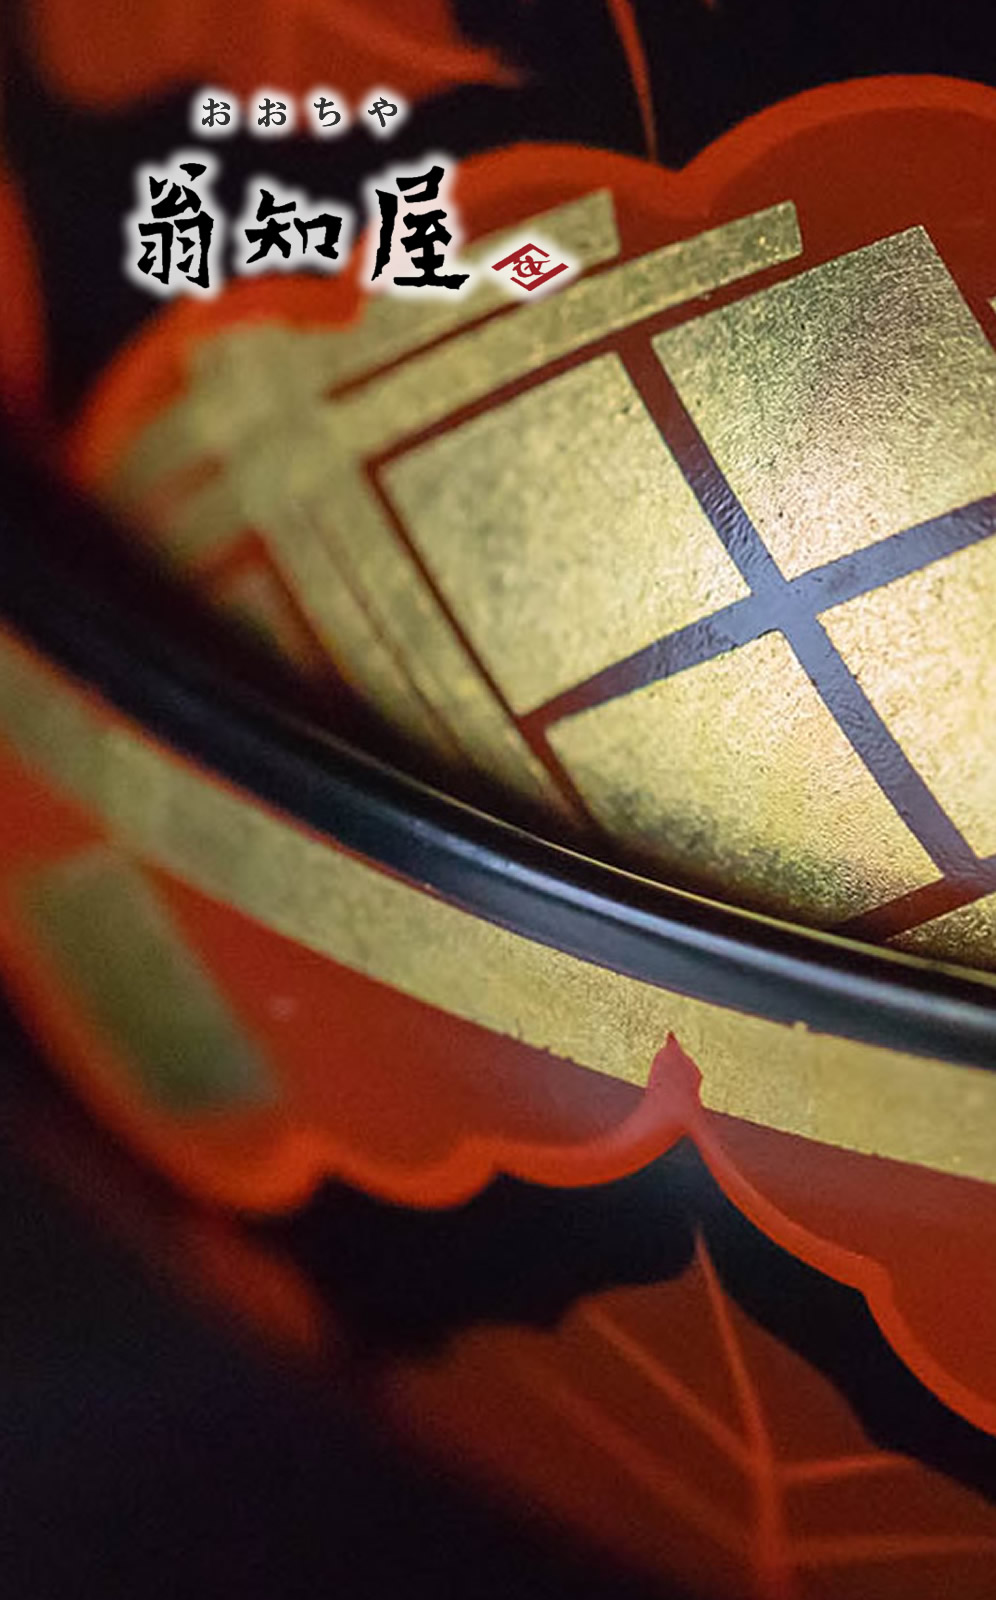
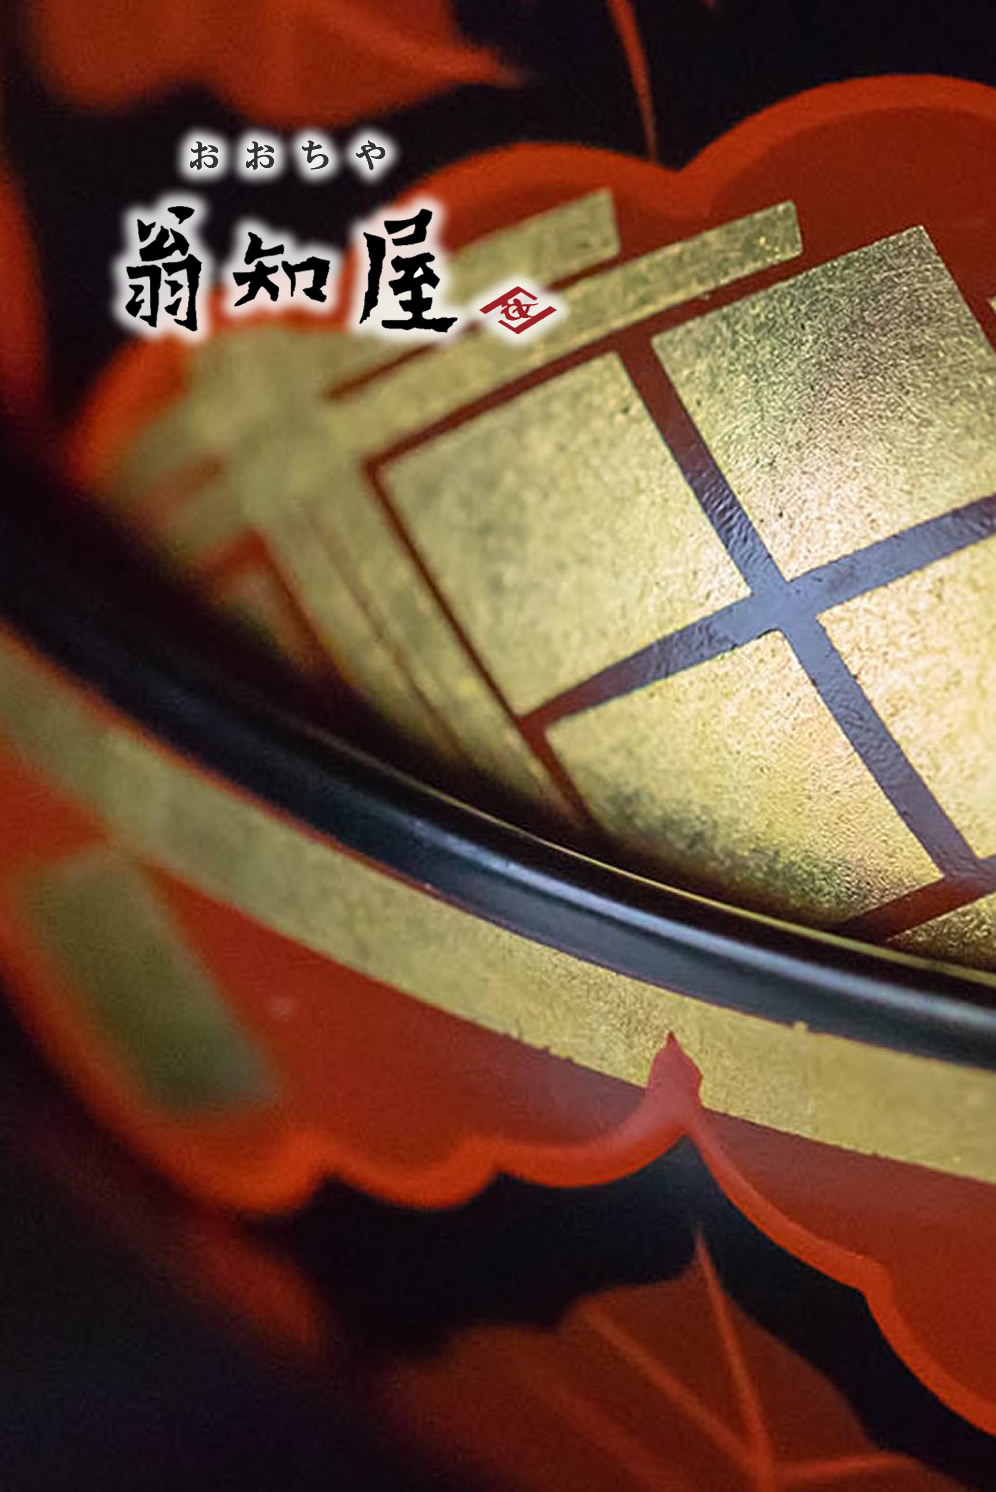
成果発表データ0723

diff --git a/templates/second.html b/templates/second.html
@@ -110,13 +110,16 @@
 </head>
 
 <body>
+    <p>&nbsp;</p> <!-- 空の段落 -->
     <div class="photo-grid2">
         <img class="shikki_img" src="../static/images/セカンド秀衡塗ロゴ透過photo.jpg">
     </div>
-
+    <br>
     <div class="title">
         {{title}}
     </div>
+    <br>
+    
     <div class="photo-grid">
         <img src="{{photo1}}" alt="写真1">
         <img src="{{photo2}}" alt="写真2">
@@ -142,7 +145,7 @@
     <div class="photo-grid1">
         <img class="shikki_img1" src="../static/images/セカンド 翁知屋ロゴ透過photo.jpg">
     </div>
-    
+    <br>
     <div class="wrapper">
         <div class="photo-grid4">
         <img class="shikki_img2" src="../static/images/セカンド 佐々木優弥のみphoto.jpg">

diff --git a/templates/top.html b/templates/top.html
@@ -12,7 +12,7 @@
             min-height: 100vh;
             margin: 0;
             /* 背景画像の指定 */
-            background-image: url("../static/images/トップ背景ロゴphoto1.jpg");
+            background-image: url("../static/images/トップ背景ロゴphoto2.jpg");
             /* 背景画像の表示モード (カバーして余白なし) */
             background-size: cover;
             /* 背景画像を固定してスクロールしない */
